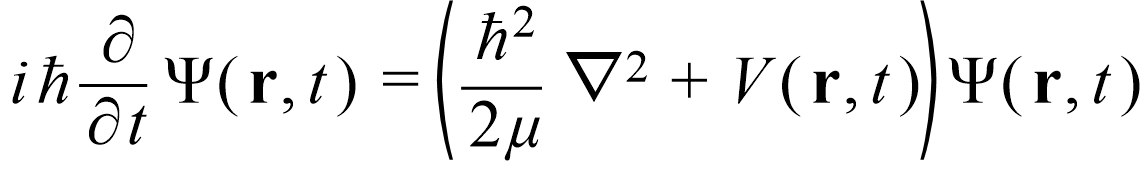
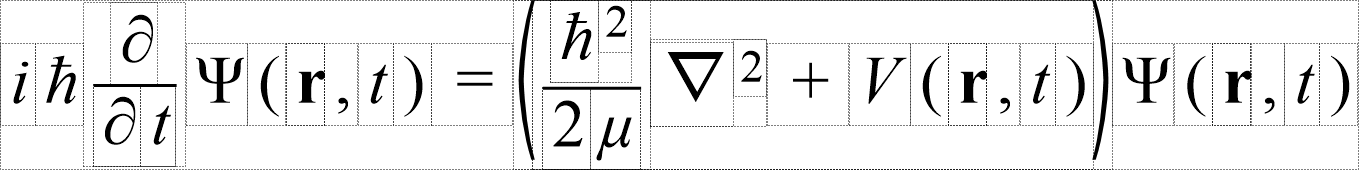
Simplified typesetter

Changed region(s): [[0.0, 0.0, 1.0, 0.9412], [0.0, 0.9706, 1.0, 1.0], [0.0, 0.2353, 0.0612, 0.2647]]

diff --git a/MathematicsTypesetting/Typesetter.cs b/MathematicsTypesetting/Typesetter.cs
@@ -16,27 +16,27 @@ namespace MathematicsTypesetting
         }
 
         public void TypesetDocument(Document document)
-        {         
+        {
             SetElementSize(document.MainElement);
             SetElementPosition(new Position(), document.MainElement);
 
-            document.Size.Width = document.MainElement.SizeIncludingOuterMargin.Width;
-            document.Size.Height = document.MainElement.SizeIncludingOuterMargin.Height;
+            document.Size.Width = document.MainElement.OuterWidth;
+            document.Size.Height = document.MainElement.OuterHeight;
         }
 
         public void SetElementPosition(Position containerOrigin, Element element)
         {
-            if (element is Number) { SetNumberPosition(containerOrigin, element as Number); }
-            if (element is Identifier) { SetIdentifierPosition(containerOrigin, element as Identifier); }
-            if (element is BinomialOperator) { SetBinomialOperatorPosition(containerOrigin, element as BinomialOperator); }
-            if (element is Bracket) { SetBracketPosition(containerOrigin, element as Bracket); }
-            if (element is NamedFunction) { SetNamedFunctionPosition(containerOrigin, element as NamedFunction); }
+            if (element is Number) { SetTextElementPosition(containerOrigin, element as Number); }
+            if (element is Identifier) { SetTextElementPosition(containerOrigin, element as Identifier); }
+            if (element is BinomialOperator) { SetTextElementPosition(containerOrigin, element as BinomialOperator); }
+            if (element is Bracket) { SetTextElementPosition(containerOrigin, element as Bracket); }
+            if (element is NamedFunction) { SetTextElementPosition(containerOrigin, element as NamedFunction); }
             if (element is MathematicsLine) { SetMathematicsLinePosition(containerOrigin, element as MathematicsLine); }
             if (element is Fraction) { SetFractionPosition(containerOrigin, element as Fraction); }
             if (element is Subscript) { SetSubscriptPosition(containerOrigin, element as Subscript); }
             if (element is Superscript) { SetSuperscriptPosition(containerOrigin, element as Superscript); }
             if (element is BracketExpression) { SetBracketExpressionPosition(containerOrigin, element as BracketExpression); }
-            if (element is Text) { SetTextPosition(containerOrigin, element as Text); }
+            if (element is Text) { SetTextElementPosition(containerOrigin, element as Text); }
         }
 
         public void SetMathematicsLinePosition(Position containerOrigin, MathematicsLine mathematicsLine)
@@ -68,11 +68,11 @@ namespace MathematicsTypesetting
 
                     var separation = ChooseGreaterLength(elementM.OuterMargin.Right, elementN.OuterMargin.Left);
 
-                    containerOrigin.X += elementM.SizeIncludingOuterMargin.Width - elementM.OuterMargin.Right + separation - elementN.OuterMargin.Left;
+                    containerOrigin.X += elementM.OuterWidth - elementM.OuterMargin.Right + separation - elementN.OuterMargin.Left;
                 }
                 else
                 {
-                    containerOrigin.X += elementM.SizeIncludingOuterMargin.Width;
+                    containerOrigin.X += elementM.OuterWidth;
                 }
             }
         }
@@ -92,8 +92,8 @@ namespace MathematicsTypesetting
         {
             fraction.Position = containerOrigin;
 
-            var numeratorOffset = (fraction.SizeOfContent.Width - fraction.Numerator.SizeIncludingOuterMargin.Width) / 2;
-            var denominatorOffset = (fraction.SizeOfContent.Width - fraction.Denominator.SizeIncludingOuterMargin.Width) / 2;
+            var numeratorOffset = (fraction.SizeOfContent.Width - fraction.Numerator.OuterWidth) / 2;
+            var denominatorOffset = (fraction.SizeOfContent.Width - fraction.Denominator.OuterWidth) / 2;
 
             containerOrigin.X += fraction.LeftWidth + numeratorOffset;
             containerOrigin.Y += fraction.TopWidth;
@@ -101,7 +101,7 @@ namespace MathematicsTypesetting
             SetElementPosition(containerOrigin, fraction.Numerator);
 
             containerOrigin.X += -numeratorOffset + denominatorOffset;
-            containerOrigin.Y += fraction.Numerator.SizeIncludingOuterMargin.Height;
+            containerOrigin.Y += fraction.Numerator.OuterHeight;
 
             SetElementPosition(containerOrigin, fraction.Denominator);
         }
@@ -153,49 +153,19 @@ namespace MathematicsTypesetting
             textElement.Position = containerOrigin;
         }
 
-        public void SetNumberPosition(Position containerOrigin, Number number)
-        {
-            SetTextElementPosition(containerOrigin, number);
-        }
-
-        public void SetIdentifierPosition(Position containerOrigin, Identifier identifier)
-        {
-            SetTextElementPosition(containerOrigin, identifier);
-        }
-
-        public void SetBinomialOperatorPosition(Position containerOrigin, BinomialOperator binomialOperator)
-        {
-            SetTextElementPosition(containerOrigin, binomialOperator);
-        }
-
-         public void SetBracketPosition(Position containerOrigin, Bracket bracket)
-        {
-            SetTextElementPosition(containerOrigin, bracket);
-        }
-
-         public void SetTextPosition(Position containerOrigin, Text text)
-        {
-            SetTextElementPosition(containerOrigin, text);
-        }
-
-        public void SetNamedFunctionPosition(Position containerOrigin, NamedFunction namedFunction)
-        {
-            SetTextElementPosition(containerOrigin, namedFunction);
-        }
-
         public void SetElementSize(Element element)
         {
-            if (element is Number) { SetNumberSize(element as Number); }
-            if (element is Identifier) { SetIdentifierSize(element as Identifier); }
-            if (element is BinomialOperator) { SetBinomialOperatorSize(element as BinomialOperator); }
-            if (element is Bracket) { SetBracketSize(element as Bracket); }
-            if (element is NamedFunction) { SetNamedFunctionSize(element as NamedFunction); }
+            if (element is Number) { SetTextElementSize(element as Number); }
+            if (element is Identifier) { SetTextElementSize(element as Identifier); }
+            if (element is BinomialOperator) { SetTextElementSize(element as BinomialOperator); }
+            if (element is Bracket) { SetTextElementSize(element as Bracket); }
+            if (element is NamedFunction) { SetTextElementSize(element as NamedFunction); }
             if (element is MathematicsLine) { SetMathematicsLineSize(element as MathematicsLine); }
             if (element is Fraction) { SetFractionSize(element as Fraction); }
             if (element is Subscript) { SetSubscriptSize(element as Subscript); }
             if (element is Superscript) { SetSuperscriptSize(element as Superscript); }
             if (element is BracketExpression) { SetBracketExpressionSize(element as BracketExpression); }
-            if (element is Text) { SetTextSize(element as Text); }
+            if (element is Text) { SetTextElementSize(element as Text); }
         }
 
         /// <summary>
@@ -233,9 +203,9 @@ namespace MathematicsTypesetting
                     }
 
                     // If this element is taller, update the maximum content height.
-                    if (elementN.SizeIncludingOuterMargin.Height > maximumContentHeight)
+                    if (elementN.OuterHeight > maximumContentHeight)
                     {
-                        maximumContentHeight = elementN.SizeIncludingOuterMargin.Height;
+                        maximumContentHeight = elementN.OuterHeight;
                     }
                 }
 
@@ -253,8 +223,8 @@ namespace MathematicsTypesetting
 
             var centreAlignmentPoint = new Position();
 
-            centreAlignmentPoint.X = mathematicsLine.SizeIncludingOuterMargin.Width / 2;
-            centreAlignmentPoint.Y = mathematicsLine.SizeIncludingOuterMargin.Height / 2;
+            centreAlignmentPoint.X = mathematicsLine.OuterWidth / 2;
+            centreAlignmentPoint.Y = mathematicsLine.OuterHeight / 2;
 
             mathematicsLine.CentreAlignmentPoint = centreAlignmentPoint;
         }
@@ -270,25 +240,42 @@ namespace MathematicsTypesetting
             return (length1 > length2) ? length1 : length2;
         }
 
+        /// <summary>
+        /// Returns the lesser of two lengths.
+        /// </summary>
+        /// <param name="length1"></param>
+        /// <param name="length2"></param>
+        /// <returns></returns>
         protected Length ChooseLesserLength(Length length1, Length length2)
         {
             return (length1 < length2) ? length1 : length2;
+        }
+
+        /// <summary>
+        /// For two elements that are next to each other, their outer margins overlap. This function returns the outer margin between the two elements that is larger, which is ultimately the size of the gap between the (borders of the) elements.
+        /// </summary>
+        /// <param name="element1"></param>
+        /// <param name="element2"></param>
+        /// <returns></returns>
+        protected Length GetMarginAdjustment(Element element1, Element element2)
+        {
+            return ChooseLesserLength(element1.OuterMargin.Right, element2.OuterMargin.Left);
         }
 
         public void SetBracketExpressionSize(BracketExpression bracketExpression)
         {
             SetElementSize(bracketExpression.InnerExpression);
 
-            bracketExpression.SizeOfContent.Width = bracketExpression.InnerExpression.SizeIncludingOuterMargin.Width + Paths.GetBracketLength() + Paths.GetBracketLength();
+            bracketExpression.SizeOfContent.Width = bracketExpression.InnerExpression.OuterWidth + 2 * Paths.GetBracketLength();
 
-            bracketExpression.SizeOfContent.Height = bracketExpression.InnerExpression.SizeIncludingOuterMargin.Height;
+            bracketExpression.SizeOfContent.Height = bracketExpression.InnerExpression.OuterHeight;
 
             SetSizesOfElement(bracketExpression);
 
             var centreAlignmentPoint = new Position();
 
-            centreAlignmentPoint.X = bracketExpression.SizeIncludingOuterMargin.Width / 2;
-            centreAlignmentPoint.Y = bracketExpression.SizeIncludingOuterMargin.Height / 2;
+            centreAlignmentPoint.X = bracketExpression.OuterWidth / 2;
+            centreAlignmentPoint.Y = bracketExpression.OuterHeight / 2;
 
             bracketExpression.CentreAlignmentPoint = centreAlignmentPoint;
         }
@@ -298,23 +285,16 @@ namespace MathematicsTypesetting
             SetElementSize(fraction.Numerator);
             SetElementSize(fraction.Denominator);
 
-            if (fraction.Numerator.SizeIncludingOuterMargin.Width > fraction.Denominator.SizeIncludingOuterMargin.Width)
-            {
-                fraction.SizeOfContent.Width = fraction.Numerator.SizeIncludingOuterMargin.Width;
-            }
-            else
-            {
-                fraction.SizeOfContent.Width = fraction.Denominator.SizeIncludingOuterMargin.Width;
-            }
+            fraction.SizeOfContent.Width = ChooseGreaterLength(fraction.Numerator.OuterWidth, fraction.Denominator.OuterWidth);
 
-            fraction.SizeOfContent.Height = fraction.Numerator.SizeIncludingOuterMargin.Height + fraction.Denominator.SizeIncludingOuterMargin.Height;
+            fraction.SizeOfContent.Height = fraction.Numerator.OuterHeight + fraction.Denominator.OuterHeight;
 
             SetSizesOfElement(fraction);
 
             var centreAlignmentPoint = new Position();
 
-            centreAlignmentPoint.X = fraction.SizeIncludingOuterMargin.Width / 2;
-            centreAlignmentPoint.Y = fraction.SizeIncludingOuterMargin.Height / 2;
+            centreAlignmentPoint.X = fraction.OuterWidth / 2;
+            centreAlignmentPoint.Y = fraction.OuterHeight / 2;
 
             fraction.CentreAlignmentPoint = centreAlignmentPoint;
         }
@@ -327,17 +307,17 @@ namespace MathematicsTypesetting
             SetElementSize(subscript.Element1);
             SetElementSize(subscript.Element2);
 
-            var marginAdjustment = ChooseLesserLength(subscript.Element1.OuterMargin.Right, subscript.Element2.OuterMargin.Left);
+            var marginAdjustment = GetMarginAdjustment(subscript.Element1, subscript.Element2);
 
-            subscript.SizeOfContent.Width = subscript.Element1.SizeIncludingOuterMargin.Width + subscript.Element2.SizeIncludingOuterMargin.Width - marginAdjustment;
-            subscript.SizeOfContent.Height = ChooseGreaterLength(subscript.Element1.SizeIncludingOuterMargin.Height, subscript.Element2.SizeIncludingOuterMargin.Height + subscript.SubscriptOffset);
+            subscript.SizeOfContent.Width = subscript.Element1.OuterWidth + subscript.Element2.OuterWidth - marginAdjustment;
+            subscript.SizeOfContent.Height = ChooseGreaterLength(subscript.Element1.OuterHeight, subscript.Element2.OuterHeight + subscript.SubscriptOffset);
 
             SetSizesOfElement(subscript);
 
             var centreAlignmentPoint = new Position();
 
-            centreAlignmentPoint.X = subscript.SizeIncludingOuterMargin.Width / 2;
-            centreAlignmentPoint.Y = subscript.Element1.SizeIncludingOuterMargin.Height / 2;
+            centreAlignmentPoint.X = subscript.OuterWidth / 2;
+            centreAlignmentPoint.Y = subscript.Element1.OuterHeight / 2;
 
             subscript.CentreAlignmentPoint = centreAlignmentPoint;
         }
@@ -350,17 +330,17 @@ namespace MathematicsTypesetting
             SetElementSize(superscript.Element1);
             SetElementSize(superscript.Element2);
 
-            var marginAdjustment = ChooseLesserLength(superscript.Element1.OuterMargin.Right, superscript.Element2.OuterMargin.Left);
+            var marginAdjustment = GetMarginAdjustment(superscript.Element1, superscript.Element2);
 
-            superscript.SizeOfContent.Width = superscript.Element1.SizeIncludingOuterMargin.Width + superscript.Element2.SizeIncludingOuterMargin.Width - marginAdjustment;
-            superscript.SizeOfContent.Height = ChooseGreaterLength(superscript.Element1.SizeIncludingOuterMargin.Height, superscript.Element2.SizeIncludingOuterMargin.Height + superscript.SuperscriptOffset);
+            superscript.SizeOfContent.Width = superscript.Element1.OuterWidth + superscript.Element2.OuterWidth - marginAdjustment;
+            superscript.SizeOfContent.Height = ChooseGreaterLength(superscript.Element1.OuterHeight, superscript.Element2.OuterHeight + superscript.SuperscriptOffset);
 
             SetSizesOfElement(superscript);
 
             var centreAlignmentPoint = new Position();
 
-            centreAlignmentPoint.X = superscript.SizeIncludingOuterMargin.Width / 2;
-            centreAlignmentPoint.Y = superscript.Element1.SizeIncludingOuterMargin.Height / 2;
+            centreAlignmentPoint.X = superscript.OuterWidth / 2;
+            centreAlignmentPoint.Y = superscript.Element1.OuterHeight / 2;
 
             superscript.CentreAlignmentPoint = centreAlignmentPoint;
         }
@@ -374,52 +354,18 @@ namespace MathematicsTypesetting
 
         public void SetTextElementSize(TextElement textElement)
         {
-            textElement.SizeOfContent = _textMeasurer.MeasureTextSize(textElement.Content, textElement.FontStyle).ScaleX(0.7);
+            textElement.SizeOfContent = _textMeasurer.MeasureTextSize(textElement.Content, textElement.FontStyle).ScaleX(0.85);
 
-             textElement.Offset = _textMeasurer.MeasureTextSize(textElement.Content, textElement.FontStyle).Width * 0.05 + 0.1;             
+            textElement.Offset = _textMeasurer.MeasureTextSize(textElement.Content, textElement.FontStyle).Width * 0.025 + 0.05;
 
             SetSizesOfElement(textElement);
 
             var centreAlignmentPoint = new Position();
 
-            centreAlignmentPoint.X = textElement.SizeIncludingOuterMargin.Width / 2;
-            centreAlignmentPoint.Y = textElement.SizeIncludingOuterMargin.Height / 2;
+            centreAlignmentPoint.X = textElement.OuterWidth / 2;
+            centreAlignmentPoint.Y = textElement.OuterHeight / 2;
 
             textElement.CentreAlignmentPoint = centreAlignmentPoint;
         }
-
-        /// <summary>
-        /// Sets the size properties of a Number element.
-        /// </summary>
-        /// <param name="number"></param>
-        public void SetNumberSize(Number number)
-        {
-            SetTextElementSize(number);
-        }
-
-        public void SetIdentifierSize(Identifier identifier)
-        {
-            SetTextElementSize(identifier);
-        }
-
-        public void SetBinomialOperatorSize(BinomialOperator binomialOperator)
-        {
-            SetTextElementSize(binomialOperator);
-        }
-
-         public void SetBracketSize(Bracket bracket)
-        {
-            SetTextElementSize(bracket);
-        }
-
-         public void SetTextSize(Text text)
-        {
-            SetTextElementSize(text);
-        }
-
-        public void SetNamedFunctionSize(NamedFunction namedFunction)
-        {
-            SetTextElementSize(namedFunction);
-        }
-            }
+    }
 }

diff --git a/MathematicsTypesetting/Element.cs b/MathematicsTypesetting/Element.cs
@@ -36,7 +36,7 @@
 
             FontStyle = new FontStyle();
 
-            DrawConstructionLines = false;
+            DrawConstructionLines = true;
         }
 
         public Length TopWidth { get { return OuterMargin.Top + Border.Width + InnerMargin.Top; } }
